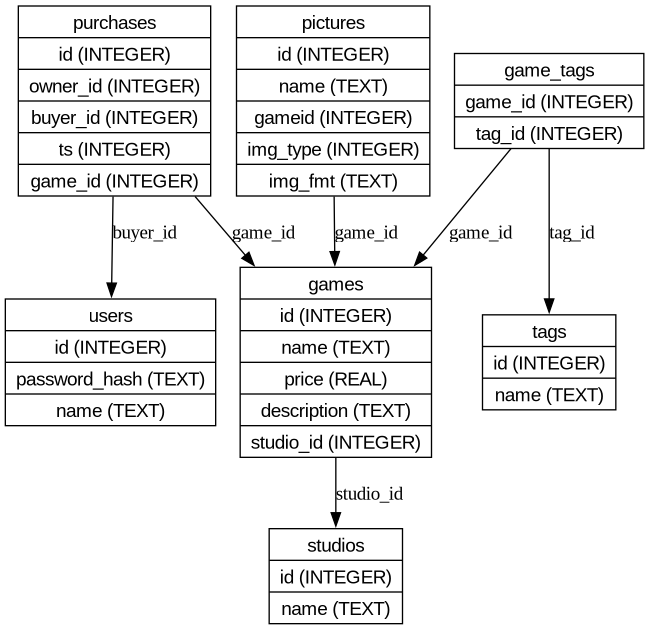
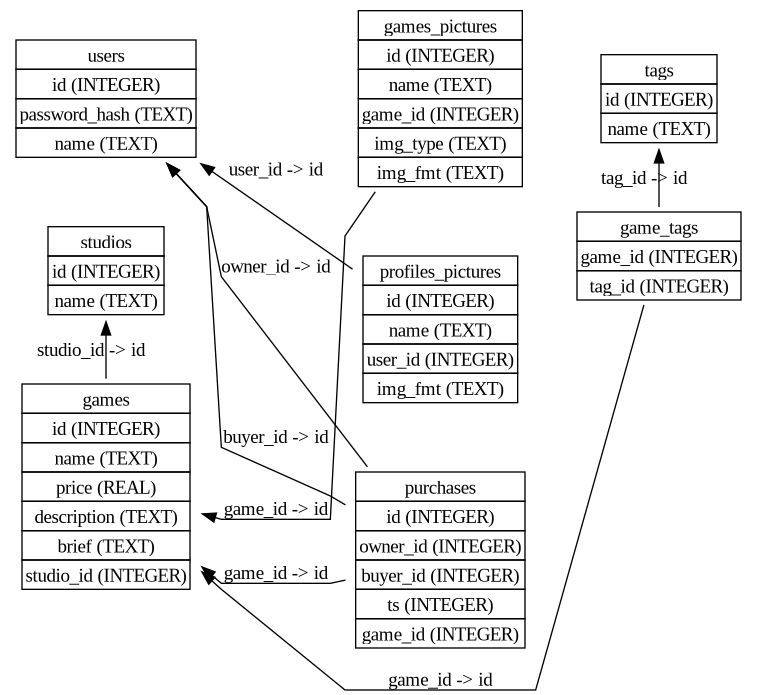
Change scheme and funny script for drawing schema by graphviz

Changed region(s): [[0.0, 0.0, 1.0, 0.9952], [0.7396, 0.754, 0.7704, 0.8444], [0.3698, 0.9048, 0.4006, 0.9349]]

diff --git a/draw_schema.py b/draw_schema.py
@@ -1,0 +1,114 @@
+import sqlite3
+import graphviz
+import re
+
+def visualize_sqlite_schema(db_path, output_path="schema", rows=3, cols=3):
+    """Generates a visual representation of an SQLite3 database schema using Graphviz."""
+
+    try:
+        conn = sqlite3.connect(db_path)
+        cursor = conn.cursor()
+
+        dot = graphviz.Digraph(comment='Database Schema')
+
+        dot.graph_attr['splines'] = 'polyline'
+        dot.graph_attr['rankdir'] = 'LR'
+        dot.attr(nodesep='0.3', ranksep='0.3')
+
+        tables = cursor.execute("SELECT name FROM sqlite_master WHERE type='table';").fetchall()
+        tables = [t[0] for t in tables if t[0] not in ["sqlite_sequence"]]
+
+        tables_per_row = (len(tables) + rows - 1) // rows
+
+        for i in range(rows):
+            with dot.subgraph(name=f'row_{i}') as row:
+                row.attr(rank='same')  # Force tables in the same row to be on the same rank
+
+
+                start_index = i * tables_per_row
+                end_index = min((i + 1) * tables_per_row, len(tables)) #prevent index out of bounds
+
+
+
+                for j, table_name in enumerate(tables[start_index:end_index]):
+                    # Calculate width dynamically
+                    column_count = len(cursor.execute(f"PRAGMA table_info({table_name});").fetchall())
+                    width = str(max(1.0, 0.7 + column_count * 0.2))
+
+
+                    row.node(table_name, shape='plaintext', label=create_table_label(cursor, table_name),
+                             width=width, height='0.75')
+
+                    # Create invisible edges for horizontal ordering within the row
+                    if j < end_index - start_index - 1:
+
+                        row.edge(tables[start_index + j], tables[start_index + j + 1], style="invis")
+
+
+
+            # Create invisible edges between the first table of each row for vertical alignment
+            if i < rows - 1:
+
+                dot.edge(tables[i * tables_per_row], tables[min((i+1)*tables_per_row, len(tables))], style="invis") #min for last row
+
+
+
+
+            # Add Foreign Key Edges (unchanged)
+            for table_name in tables[start_index:end_index]: # create edges for all tables
+                create_stmt = cursor.execute(f"SELECT sql FROM sqlite_master WHERE type='table' AND name='{table_name}'").fetchone()[0]
+
+                foreign_keys = extract_fks_from_create(create_stmt, table_name)
+
+                for parent_table, child_col, parent_col in foreign_keys:
+                    if parent_table in tables:
+                        try:
+                            dot.edge(table_name, parent_table, label=f"{child_col} -> {parent_col}", constraint='false')
+                        except Exception as e:
+                            print(f"Warning: Could not create FK edge: {table_name}.{child_col} -> {parent_table}.{parent_col}: {e}")
+
+       
+        dot.render(output_path, view=False, format='png')
+
+        print(f"Schema visualization saved to {output_path}")
+
+    except sqlite3.Error as e:
+        print(f"Error: {e}")
+    finally:
+        if conn:
+            conn.close()
+
+
+def extract_fks_from_create(create_statement, table_name):
+    """Extract foreign keys from CREATE TABLE statement."""
+
+    fks = []
+    for match in re.finditer(r"FOREIGN KEY\s*\((.*?)\)\s*REFERENCES\s*(.*?)\s*\((.*?)\)", create_statement, re.IGNORECASE):
+        child_cols = [c.strip() for c in match.group(1).split(',')]
+        parent_table_ref = match.group(2)
+
+        if '"' in parent_table_ref or "'" in parent_table_ref:
+            parent_table = parent_table_ref.split('(')[0].strip().replace('"', '').replace("'", "")
+        else:
+            parent_table = parent_table_ref.split('(')[0].strip()
+        if parent_table.endswith('"') or parent_table.endswith("'"):
+            parent_table = parent_table[:-1]
+        
+        parent_cols = [p.strip() for p in match.group(3).split(',')]
+        fks.extend([(parent_table, child_col, parent_col) for child_col, parent_col in zip(child_cols, parent_cols)])
+
+    return fks
+
+def create_table_label(cursor, table_name):
+    """Creates the HTML-like label for the table node."""
+
+    columns = cursor.execute(f"PRAGMA table_info({table_name});").fetchall()
+    label = f"<\n<TABLE BORDER=\"0\" CELLBORDER=\"1\" CELLSPACING=\"0\">\n<TR><TD COLSPAN=\"2\">{table_name}</TD></TR>\n"
+    for column in columns:
+        label += f"<TR><TD>{column[1]} ({column[2]})</TD></TR>\n"
+    label += "</TABLE>>"
+    return label
+
+db_file = "store.sql3.db"
+visualize_sqlite_schema(db_file, rows=3, cols=3)
+
